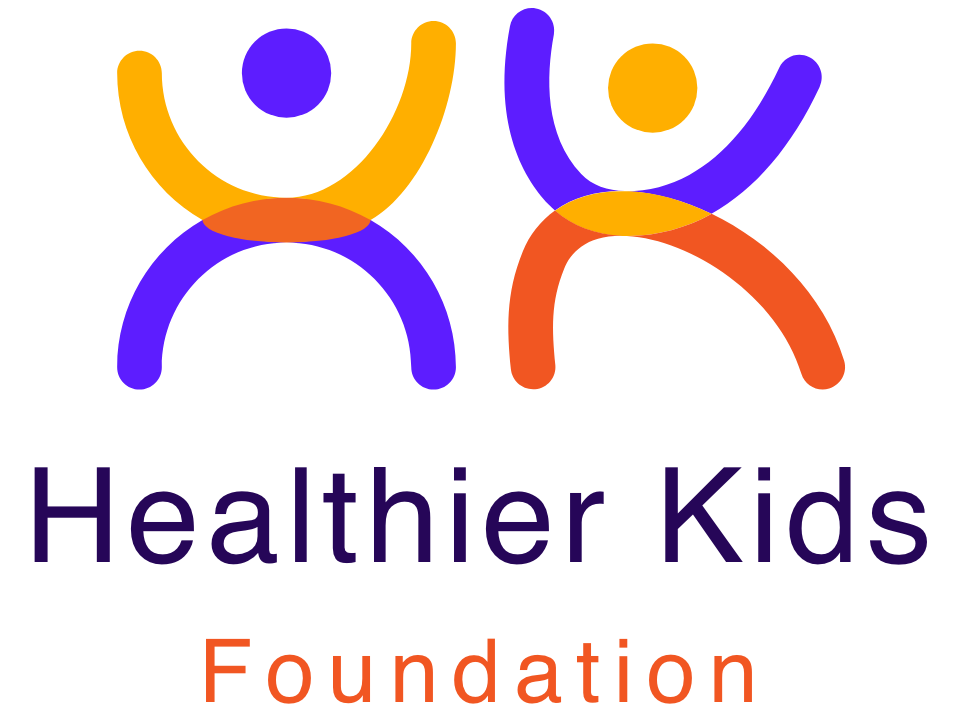
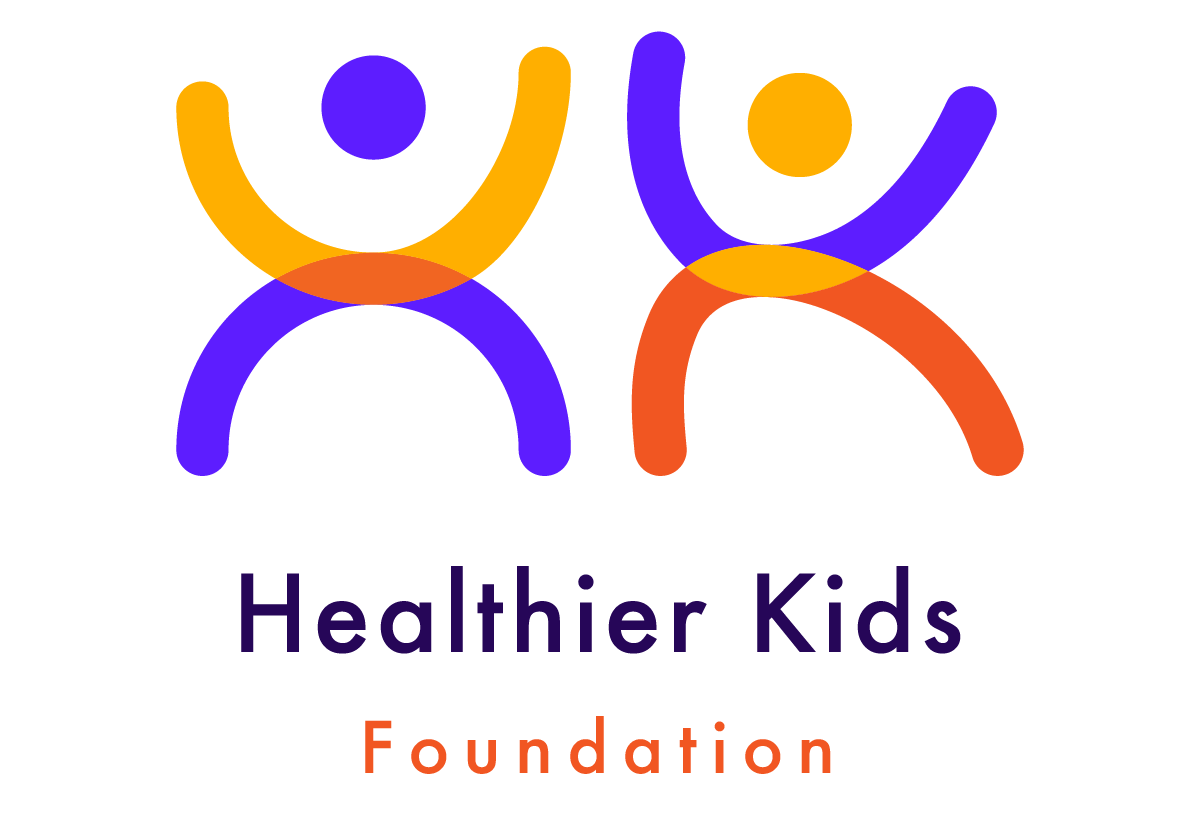
z-index nav

diff --git a/index.html b/index.html
@@ -33,7 +33,7 @@
             <div class="cards">
 
                      <div class="card">
-                         <img class="cardImage"  src="images/ecoffee.png">
+                         <img class="cardImage"  src="images/hkf.png">
                          <h2 class="cardName">HFK research & redesign</h2>
                          <p class="cardDescription">Case study: full website redesign for a non-profit organisation Healthier Kids Foundation</p>
                      </div>

diff --git a/style.css b/style.css
@@ -11,6 +11,8 @@ body{
 
 .navBar{
     width: 100%;
+    position: absolute;
+    z-index: 1;
     display: flex;
     flex-direction: row;
     justify-content: space-between;
@@ -380,6 +382,10 @@ h1{
     .card{
         width: 100%;
         margin-bottom: 40px;
+    }
+
+    .card:hover{
+        transform: scale(1);
     }
     
     
